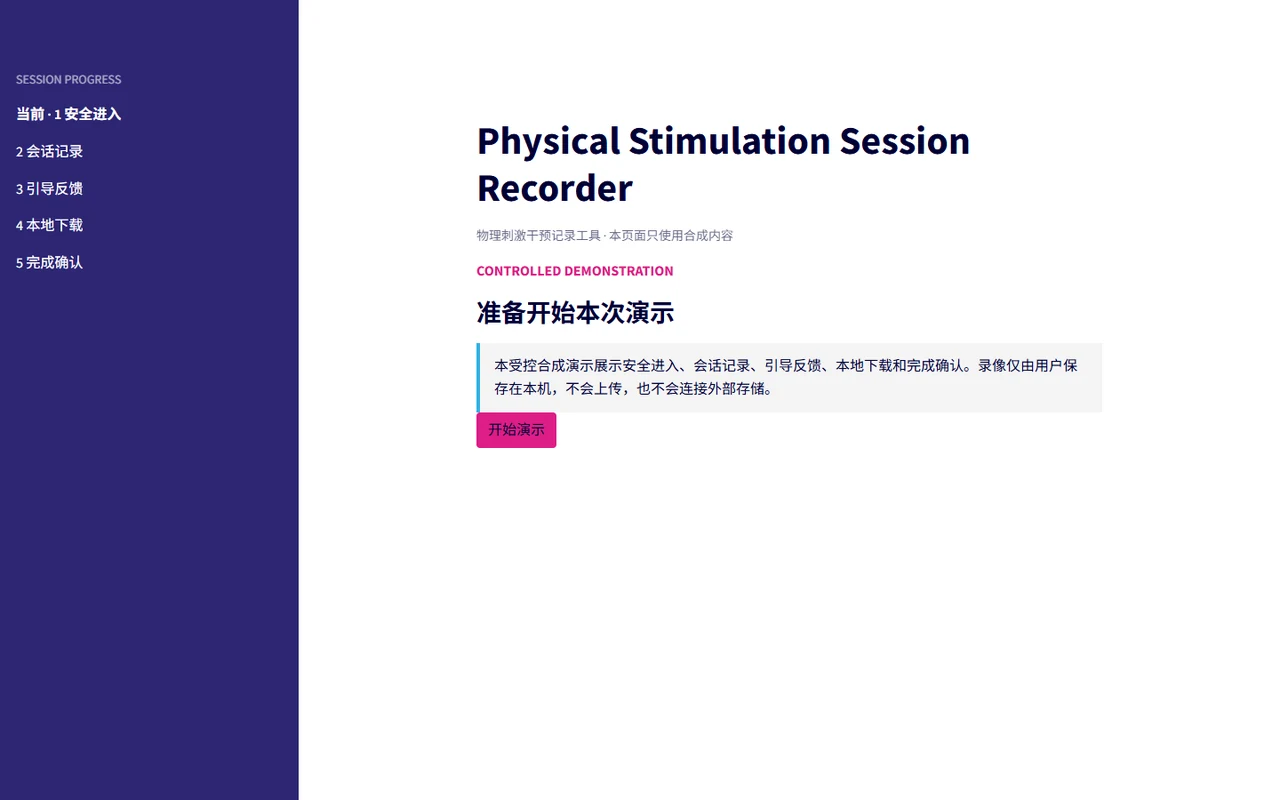
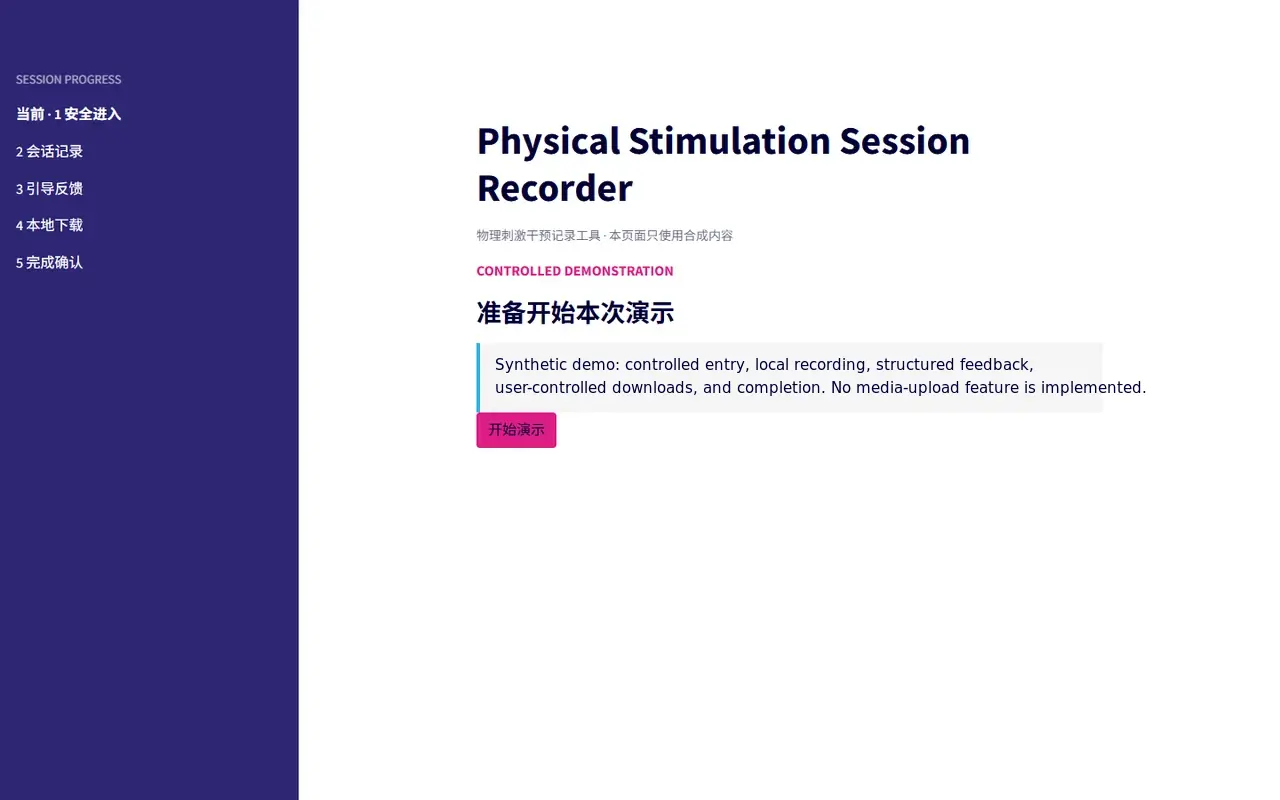
Polish recorder showcase narrative and evidence boundaries (#2)
Reframe the public portfolio narrative, correct evidence and privacy boundaries, and update the sanitized workflow overview assets.

Changed region(s): [[0.375, 0.4375, 0.9062, 0.5]]

diff --git a/README.md b/README.md
@@ -1,94 +1,127 @@
-# Physical Stimulation Intervention Session Companion
+# Physical Stimulation Session Recorder
 
-**Public showcase · 研究会话原型公开展示**
+**A guided workflow for repeated, remotely supervised research sessions.**
 
-A documentation-only showcase of a privacy-conscious research-session prototype. The prototype brings controlled entry, brief daily context, browser-local audiovisual recording, stepwise structured responses, local response export, and completion confirmation into one guided workflow.
+Designed for participants completing physical-stimulation sessions with research-staff supervision, the prototype combines controlled entry, brief session context, browser-local audiovisual recording, stepwise structured responses, local export, and explicit completion gates. It aims to reduce missed steps and ambiguous adherence records without adding a media-upload path to the application.
 
-本项目用于展示受控研究会话的流程与隐私边界。目前仍是研究原型，尚未替代由研究人员监督的正式会话流程，也不构成临床产品或自动化居家干预系统。
+> **Public-showcase scope.** All example media, study-facing prompts, and displayed values are synthetic; the interaction structure is a sanitized representation of the access-restricted prototype. This repository contains documentation and sanitized visual assets only. Operational source code, study-specific measures and access logic, credentials, and participant records remain access-restricted.
 
-**Private synthetic demo — access available on request.**
+![Animated synthetic walkthrough showing entry, local recording, stepwise responses, local export, and completion](assets/workflow-demo.gif)
 
-![Synthetic walkthrough of the public demonstration](assets/workflow-demo.gif)
+<details>
+<summary>View the static workflow image</summary>
 
-[Static workflow image / 静态流程图](assets/workflow-demo-static.webp)
+![Static overview of the synthetic guided session workflow](assets/workflow-demo-static.webp)
 
-## My Contributions · 我的工作
+</details>
 
-- Designed the six-stage operational journey and the explicit gates between access, recording, response, export, and completion.
-- Implemented the browser-local recording experience, including device readiness, local WebM saving, playback checks, and explicit save confirmation.
-- Built the session-scoped JSON + Excel export flow and the associated state-cleanup and privacy boundaries.
-- Created a separate synthetic demonstration and a fail-closed public-asset audit so the interaction can be shown without publishing study-specific content.
-- Produced the bilingual walkthrough and visual documentation for research and engineering review.
+## What I Built
 
-## Two Related, Distinct Flows · 两套相关但不同的流程
+My contribution was the design and implementation of the participant-facing software workflow and this sanitized public documentation. The research team defined and governed the intervention protocol, study-specific measures, and participant procedures; none of those materials is reproduced here.
 
-### Six-stage operational prototype · 六阶段正式原型
+- Designed the end-to-end session journey and six explicit gates from entry through completion.
+- Implemented a Chrome-based local recorder with device-readiness checks, browser-managed WebM saving, local playback-check instructions, and separate saved-file and no-save outcomes.
+- Built the stepwise response flow and a session-scoped ZIP export with corresponding JSON and Excel views generated from the same session snapshot.
+- Defined the data-handling and cleanup boundaries among browser-local media, transient response state, and user-controlled downloads.
+- Created the synthetic walkthrough and sanitized visual documentation so the interaction can be reviewed without exposing study-specific content.
 
-This is the intended structure of a supervised research session. Study-specific measurement content is deliberately omitted from this showcase.
+## Guided Workflow
 
-| Stage | Purpose | Data boundary |
+| Stage | Purpose | Complete when |
 | --- | --- | --- |
-| **1. Controlled entry / 受控进入** | Establish the authorized session context | Access details are managed separately |
-| **2. Daily context / 当日状态** | Record the minimum context needed for the session | Values remain session-scoped until local export |
-| **3. Browser-local recording / 本地音视频** | Record and verify camera video plus microphone audio | Media stays in Chrome and is saved by the user |
-| **4. Stepwise structured responses / 分步作答** | Present one required response step at a time | Study-specific content is not included here |
-| **5. Local response package / 本地资料包** | Generate equivalent JSON and Excel records in one ZIP | The user downloads and checks the package locally |
-| **6. Completion confirmation / 完成确认** | Confirm both local outcomes and close the active flow | Application-owned session state is cleared |
+| **01 · Controlled entry** | Establish the configured supervised-session context | Configured entry is accepted |
+| **02 · Daily context** | Capture the minimum context required for the session | Required context is complete |
+| **03 · Browser-local recording** | Record and review camera video plus microphone audio in Chrome | User attests the local WebM outcome |
+| **04 · Stepwise response** | Present one required response step at a time | Required and applicable steps are complete |
+| **05 · Local response package** | Generate JSON and Excel views in one ZIP | User attests that the ZIP was saved locally |
+| **06 · Completion** | Record the stated outcomes and close the active flow | Active-flow response and export values are reset |
 
-### Five-state synthetic public demo · 五状态公开合成演示
+The public walkthrough condenses adjacent interactions and replaces research measures with invented usability prompts. It demonstrates the interaction pattern; the table documents all six prototype completion gates.
 
-The public-facing demonstration is intentionally smaller. It preserves the interaction pattern while replacing operational content with invented feedback prompts and synthetic values.
+## Interface Walkthrough
 
-| Demo state | What it demonstrates |
+The images below come from the synthetic public walkthrough; the accompanying text describes the corresponding behavior in the access-restricted prototype.
+
+### Browser-Local Recording
+
+![Animated synthetic walkthrough of device checks, recording, local saving, and outcome confirmation](assets/local-recording.gif)
+
+<details>
+<summary>View the static recorder image</summary>
+
+![Static view of the browser-local recording controls](assets/local-recording-static.webp)
+
+</details>
+
+The current Chrome implementation checks camera and microphone readiness, shows a muted preview, records WebM media, and provides local playback-check instructions. Depending on the selected mode, recording data are either buffered for a user-initiated download or written directly to a user-selected local file. The implemented application path does not send media bytes to the Streamlit server.
+
+Interrupted or unfinished local recordings may be incomplete. The UI records either the user's confirmation that a local file was saved or an explicit no-save outcome. These are user attestations; the application does not inspect the local file system or verify file integrity.
+
+### Stepwise Structured Responses
+
+![Synthetic screen showing invented usability prompts and stepwise response controls](assets/step-07-synthetic-feedback.webp)
+
+The public walkthrough uses four invented usability prompts to demonstrate one-at-a-time controls, progression, and required-step completion. In the prototype, applicable branches appear only when needed, and study-specific measures remain access-restricted.
+
+### Local Response Package
+
+![Synthetic screen showing a ZIP download containing JSON and Excel exports](assets/step-08-local-zip-download.webp)
+
+The prototype generates one user-downloaded ZIP containing corresponding JSON and Excel views of the same session snapshot. The UI records the user's confirmation that the ZIP was saved locally; it does not inspect the local file system.
+
+### Completion Confirmation
+
+![Synthetic completion screen marking the end of the guided flow](assets/step-09-confirmation.webp)
+
+The final action records the stated recording and response-package outcomes, removes the active workflow's response and export values from application-managed session state, leaves a minimal terminal completion marker, and closes the guided flow.
+
+## Data Flow and Privacy Boundary
+
+```mermaid
+flowchart TB
+    subgraph MEDIA["Audiovisual path — participant device"]
+        direction LR
+        CAM["Camera + microphone"] --> REC["Chrome-local recorder"]
+        REC --> WEBM["User-selected local WebM"]
+    end
+
+    subgraph RESPONSES["Response path — active application session"]
+        direction LR
+        UI["Guided response UI"] --> MEM["Transient Streamlit session state"]
+        MEM --> PACK["JSON + Excel package"]
+        PACK --> ZIP["User-saved ZIP"]
+        MEM -. "active-flow values reset at completion" .-> END["Terminal state"]
+    end
+```
+
+- In the current implementation, audiovisual data are handled by the recorder in Chrome and written to a user-selected local WebM. The implemented application path does not send media bytes to the Streamlit server.
+- Response values are held in Streamlit's server-side session state during the active flow to manage progression and generate the download package. Corresponding JSON and Excel views are generated from the same session snapshot.
+- The prototype does not intentionally write response values to an application database or file-backed server store. Browser, runtime, and hosting-platform retention are outside this showcase's claims.
+- Completion removes the workflow-owned response and export values from application-managed session state. This does not claim memory zeroization or deletion of browser, runtime, or hosting-platform logs.
+- Local-save and playback checks are user attestations, not automatic file-system inspection or integrity verification.
+
+## Evidence Boundary
+
+This repository provides synthetic visual evidence of the interaction pattern. Statements about the access-restricted implementation are implementation documentation; because the operational source is not public, they are not independently executable or verifiable from this repository alone.
+
+| Shown in synthetic assets or documented about the prototype | Not established by this showcase |
 | --- | --- |
-| **Overview / 流程概览** | Neutral explanation of the synthetic session |
-| **Local capture / 本地录制** | Device readiness, recording, local save, and no-save fallback |
-| **Synthetic reflection / 合成反馈** | Four invented sliders used only to demonstrate progression |
-| **Synthetic download / 合成下载** | A locally downloaded JSON + Excel ZIP containing invented values |
-| **Confirmation / 完成确认** | A clear terminal state and an explicit restart action |
+| Guided progression and explicit completion gates | Clinical effectiveness |
+| Browser-local media handling and user-initiated local saving | Independent public source-code or privacy/security audit |
+| Local response-package generation and active-flow state reset | Automatic verification of files on the user's device or platform-retention guarantees |
+| A supervised research-prototype workflow | Unsupervised deployment readiness or privacy/security certification |
 
-The five states above describe the application state machine. The screenshots show smaller user-interface actions within those states; they do not represent additional operational stages.
+## Project Status
 
-## Browser-local Recording · 浏览器本地录制
+**Active research prototype.** Participant sessions remain governed by supervised study procedures. This tool is not a clinical product or the authoritative intervention protocol. The implementation remains access-restricted and is being developed as reusable research infrastructure for guided sessions, browser-local recording, structured responses, and local data packaging.
 
-![Synthetic local-recording walkthrough](assets/local-recording.gif)
+<details>
+<summary>中文简介</summary>
 
-[Static recorder image / 静态录制图](assets/local-recording-static.webp)
+本项目面向研究人员监督下的重复性远程物理刺激研究会话，将受控进入、当日状态、本地音视频录制、分步结构化作答、本地资料包与完成确认组织为一条清晰流程。
 
-The current desktop Chrome workflow provides camera and microphone readiness, a stable preview, a recording timer, local playback, and explicit save confirmation.
+我负责参与者端软件流程、数据处理边界及脱敏公开展示的设计与实现；研究团队负责干预方案、研究专用量表和参与者流程。本仓库只包含合成界面与脱敏素材，不公开运行源码、研究专用内容、凭证或参与者记录。
 
-- **Demo mode:** short recordings are held in browser memory until the user downloads the WebM.
-- **Long-session mode:** recording chunks are written directly to a user-selected local file and finalized on a clean stop.
-- In both modes, media bytes remain in Chrome; the Streamlit application has no media-upload path.
+录像保存在用户选择的本地 WebM 中，当前实现未设置向 Streamlit 服务器上传媒体的应用路径。页面中的本地保存与回放确认均为用户自我确认，系统不会自动检查本地文件或保证浏览器、运行环境与托管平台日志被删除。
 
-Interrupted or unfinished files may be incomplete. A checked confirmation records the user's verification; it is not an automatic inspection of the local file system.
-
-## Synthetic Response and Export · 合成作答与导出
-
-![Invented response sliders used in the synthetic demonstration](assets/step-07-synthetic-feedback.webp)
-
-The synthetic demo uses four invented interaction questions. Their only purpose is to demonstrate focused controls, progression, local export, and completion without reproducing study-specific measurement content.
-
-![Synthetic JSON and Excel package download](assets/step-08-local-zip-download.webp)
-
-Synthetic response values are held in transient Streamlit session memory while one ZIP is generated. The ZIP contains equivalent JSON and Excel representations and is saved through a user-controlled browser download. The synthetic demo does not write those values or the cached ZIP to durable server storage.
-
-## Privacy Boundary · 隐私边界
-
-- Camera and microphone bytes remain in the browser and are saved only through a user-controlled local action.
-- Synthetic response values enter transient server-side session memory only to build the local response package.
-- Public screenshots and animations use generated media, invented responses, and no participant identifiers.
-- This public showcase contains documentation and sanitized visual assets, not application source, credentials, or participant records.
-- The current showcase asset set has passed its file-shape, content, URL, and embedded-metadata audit.
-
-> **Release boundary:** Operational source code and study-specific materials are outside the scope of this public showcase and must remain access-restricted. A public release should be described as privacy-safe only after repository visibility and anonymous access have been independently verified.
-
-## Current Status · 当前状态
-
-- **Research prototype / 研究原型:** active development and evaluation.
-- **Operational use / 正式使用:** supervised research procedures remain authoritative.
-- **Public evidence / 公开证据:** synthetic interaction, local recording behavior, local export, and privacy-boundary documentation.
-- **Not claimed / 不作声明:** clinical effectiveness, unsupervised deployment readiness, or automatic verification that a local file was saved correctly.
-
-![Synthetic completion state](assets/step-09-confirmation.webp)
-
+</details>
